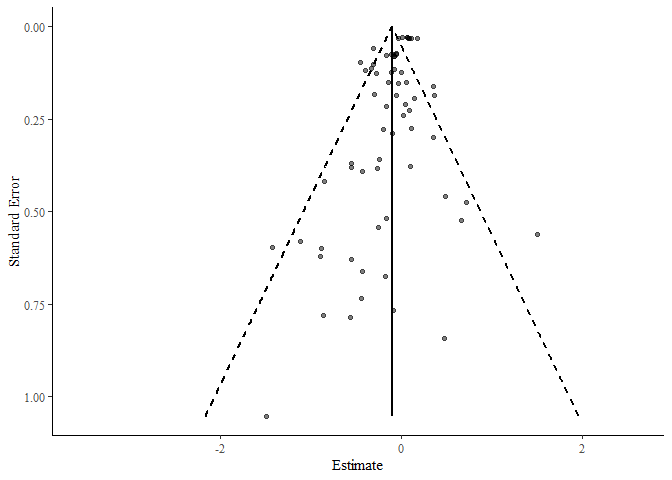
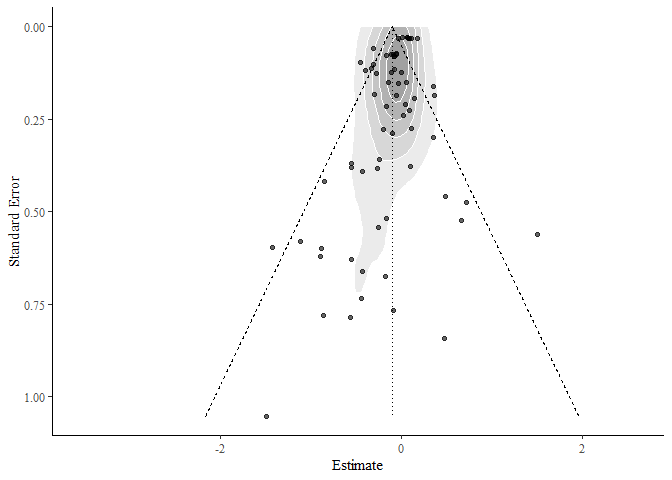
pass checks

diff --git a/README.md b/README.md
@@ -34,14 +34,14 @@ head(example_data)
 ```
 
     ## # A tibble: 6 x 9
-    ##      Id Study     Cluster   logOR      v  Year Type   Discipline   Country
-    ##   <int> <chr>       <int>   <dbl>  <dbl> <int> <fct>  <fct>        <fct>  
-    ## 1     1 Ackers (~       1 -0.401  0.0139  1996 Fello~ Physical sc~ Europe 
-    ## 2     2 Ackers (~       1 -0.0573 0.0343  1996 Fello~ Physical sc~ Europe 
-    ## 3     3 Ackers (~       1 -0.299  0.0339  1996 Fello~ Physical sc~ Europe 
-    ## 4     4 Ackers (~       1  0.361  0.0340  1996 Fello~ Physical sc~ Europe 
-    ## 5     5 Ackers (~       1 -0.333  0.0128  1996 Fello~ Social scie~ Europe 
-    ## 6     6 Ackers (~       1 -0.0717 0.0136  1996 Fello~ Physical sc~ Europe
+    ##      Id Study      Cluster   logOR      v  Year Type   Discipline   Country
+    ##   <int> <chr>        <int>   <dbl>  <dbl> <int> <fct>  <fct>        <fct>  
+    ## 1     1 Ackers (2~       1 -0.401  0.0139  1996 Fello~ Physical sc~ Europe 
+    ## 2     2 Ackers (2~       1 -0.0573 0.0343  1996 Fello~ Physical sc~ Europe 
+    ## 3     3 Ackers (2~       1 -0.299  0.0339  1996 Fello~ Physical sc~ Europe 
+    ## 4     4 Ackers (2~       1  0.361  0.0340  1996 Fello~ Physical sc~ Europe 
+    ## 5     5 Ackers (2~       1 -0.333  0.0128  1996 Fello~ Social scie~ Europe 
+    ## 6     6 Ackers (2~       1 -0.0717 0.0136  1996 Fello~ Physical sc~ Europe
 
 We need to do some basic prep for this data: In this dataset data for
 ‘year’ is held in its own column as well as the Study column. This will
@@ -144,7 +144,7 @@ We can now plot easily \#\# forest plot
 moderation_object %>% plot(author = "Study")
 ```
 
-    ## year was not manually specified, using column:'Year'.FALSE
+    ## year was not manually specified, using:'Year'.
 
 ![](README_files/figure-markdown_github/unnamed-chunk-6-1.png)
 
@@ -193,19 +193,19 @@ moderation_object2 %>%
 ```
 
     ## # A tibble: 11 x 9
-    ##    indent Moderator   k     n     `Estimate (95% ~ SE    R2_2  R2_3  p    
-    ##    <lgl>  <chr>       <chr> <chr> <chr>            <chr> <chr> <chr> <chr>
-    ##  1 FALSE  Baseline (~ 21    66    -0.10 (-0.18, -~ 0.04  -     -     -    
-    ##  2 FALSE  Discipline  21    66    -                -     0.00  0.50  0.13 
-    ##  3 FALSE  Country     21    66    -                -     0.12  0.66  0.02*
-    ##  4 TRUE   United Sta~ 4     12    0.00 (-0.11, 0.~ 0.06  -     -     -    
-    ##  5 TRUE   Canada      1     3     -0.13 (-0.33, 0~ 0.10  -     -     -    
-    ##  6 TRUE   Australia   5     13    -0.02 (-0.20, 0~ 0.09  -     -     -    
-    ##  7 TRUE   United Kin~ 4     10    0.06 (-0.10, 0.~ 0.08  -     -     -    
-    ##  8 TRUE   Europe      7     28    -0.22 (-0.32, -~ 0.05  -     -     -    
-    ##  9 FALSE  Type        21    66    -                -     0.07  0.79  < 0.~
-    ## 10 TRUE   Grant       13    40    -0.01 (-0.08, 0~ 0.04  -     -     -    
-    ## 11 TRUE   Fellowship  11    26    -0.20 (-0.28, -~ 0.04  -     -     -
+    ##    indent Moderator    k     n     `Estimate (95% ~ SE    R2_2  R2_3  p    
+    ##    <lgl>  <chr>        <chr> <chr> <chr>            <chr> <chr> <chr> <chr>
+    ##  1 FALSE  Baseline (I~ 21    66    -0.10 (-0.18, -~ 0.04  -     -     -    
+    ##  2 FALSE  Discipline   21    66    -                -     0.00  0.50  0.13 
+    ##  3 FALSE  Country      21    66    -                -     0.12  0.66  0.02*
+    ##  4 TRUE   United Stat~ 4     12    0.00 (-0.11, 0.~ 0.06  -     -     -    
+    ##  5 TRUE   Canada       1     3     -0.13 (-0.33, 0~ 0.10  -     -     -    
+    ##  6 TRUE   Australia    5     13    -0.02 (-0.20, 0~ 0.09  -     -     -    
+    ##  7 TRUE   United King~ 4     10    0.06 (-0.10, 0.~ 0.08  -     -     -    
+    ##  8 TRUE   Europe       7     28    -0.22 (-0.32, -~ 0.05  -     -     -    
+    ##  9 FALSE  Type         21    66    -                -     0.07  0.79  < 0.~
+    ## 10 TRUE   Grant        13    40    -0.01 (-0.08, 0~ 0.04  -     -     -    
+    ## 11 TRUE   Fellowship   11    26    -0.20 (-0.28, -~ 0.04  -     -     -
 
 An indent column can be used to send formatting instructions to word.
 
@@ -219,7 +219,7 @@ models. An egger’s asymmetry test is also automatically reported to try
 and detect publication bias.
 
 ``` r
-model0 %>% funnel_plot
+model0 %>% funnel_plot(density = T)
 ```
 
     ## $plot
